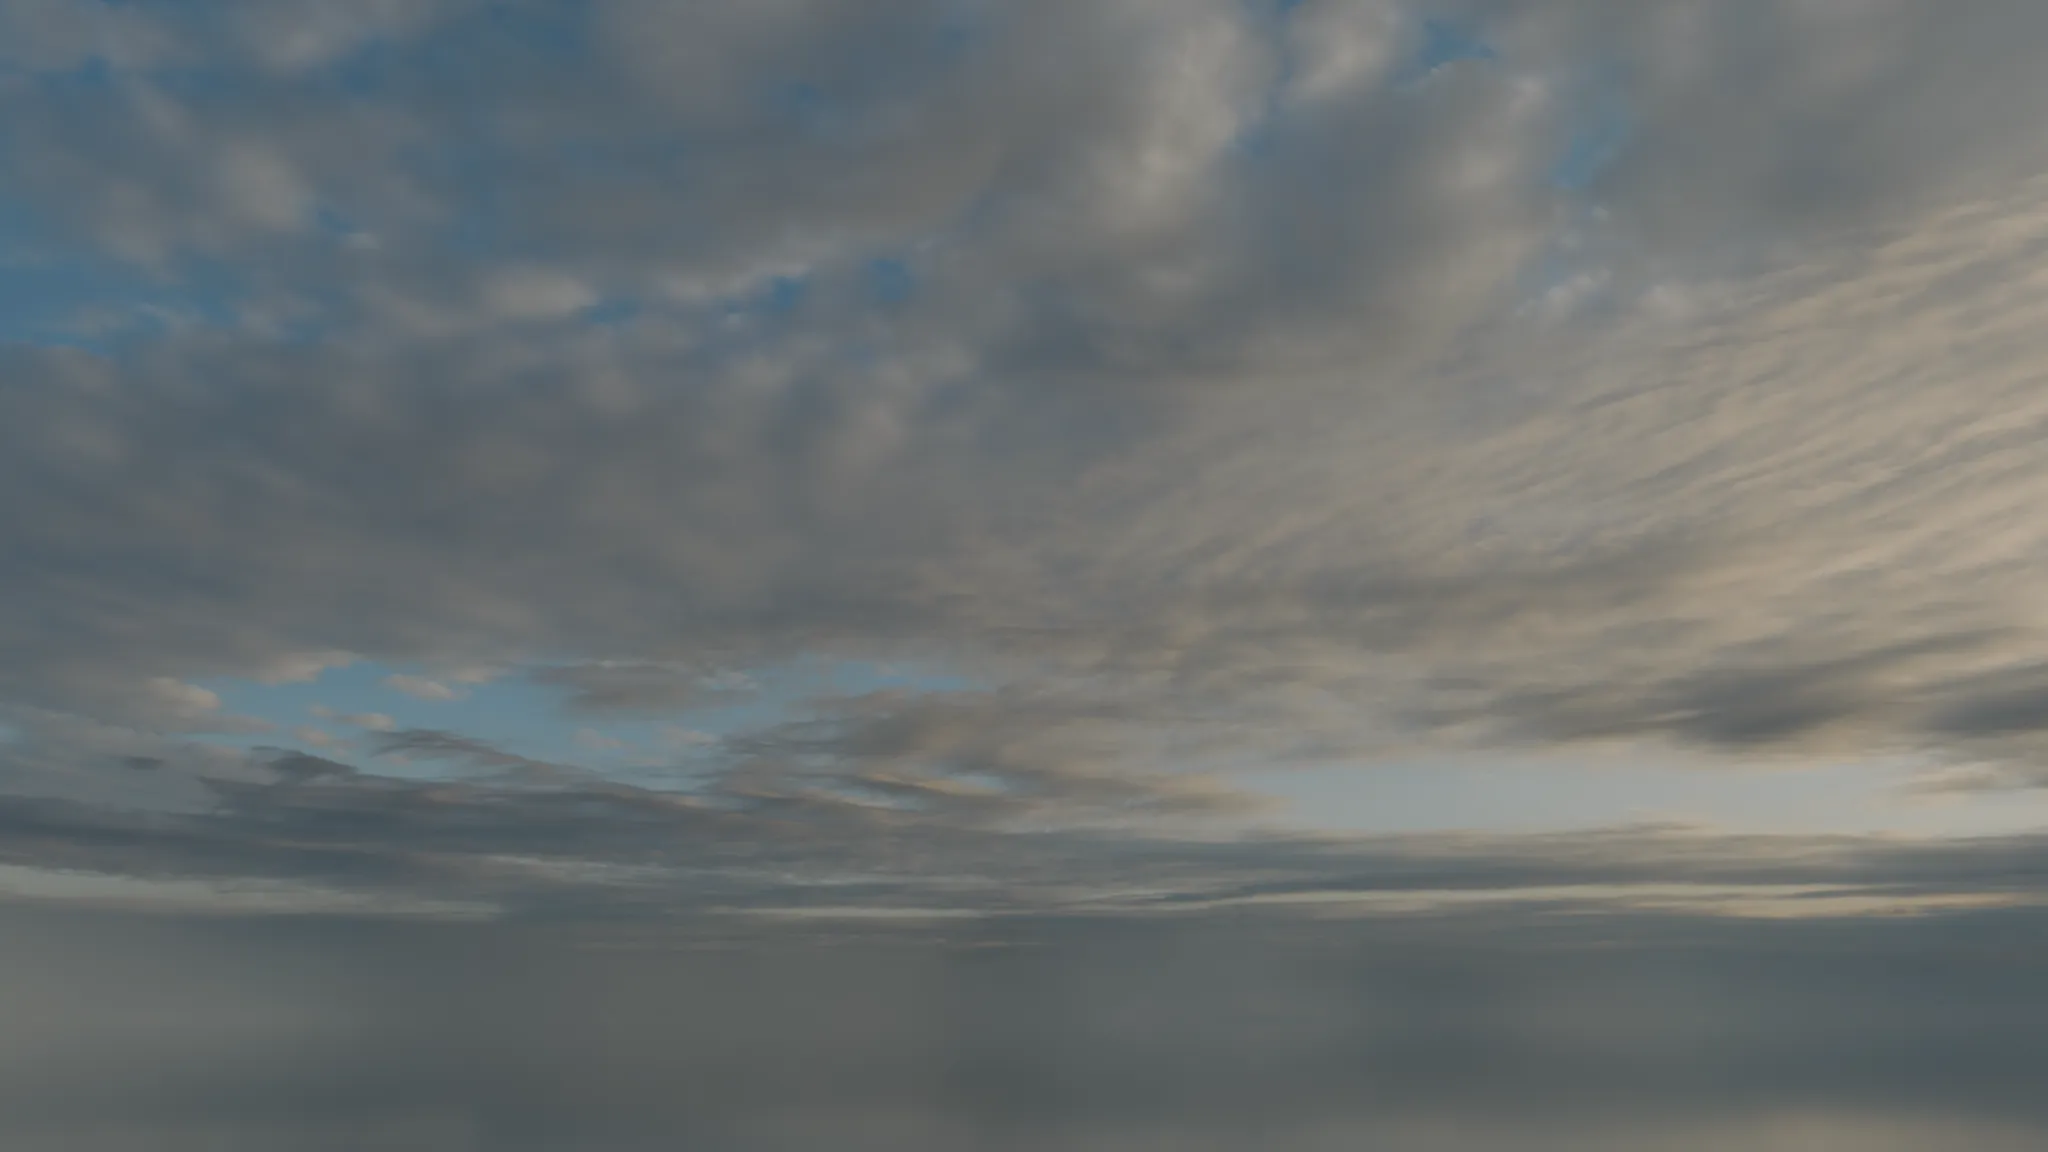
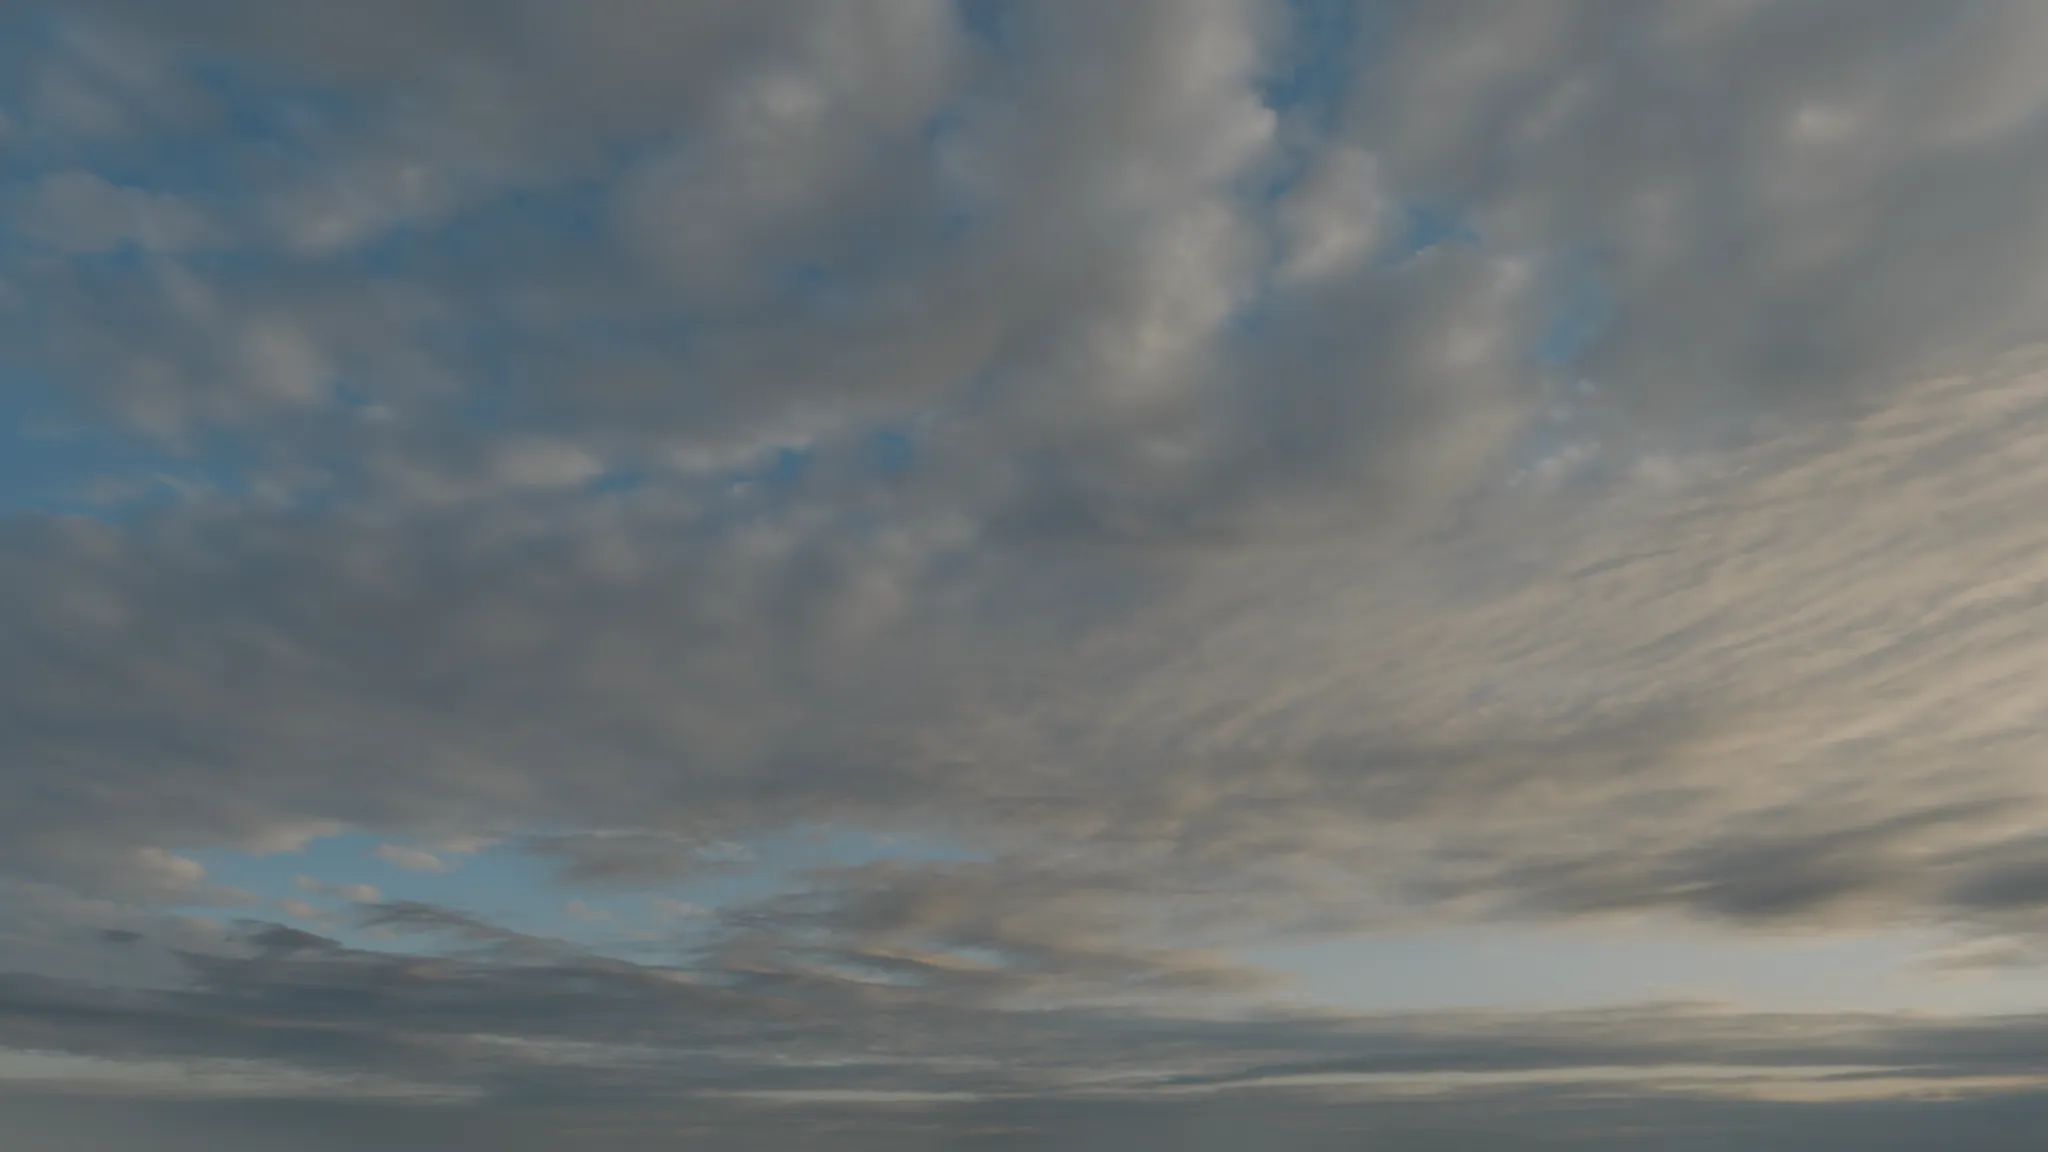
Воздушное превосходство: витрина — в кадре неба только облака (горизонт с размытым низом панорамы ниже кадра)

diff --git a/fortuna-bot-web/games/airdef/shop-ui.js b/fortuna-bot-web/games/airdef/shop-ui.js
@@ -33,7 +33,7 @@ const CSS = `
 #shopWin .ic { width: 1em; height: 1em; fill: currentColor; flex: none; display: inline-block; vertical-align: -0.14em; }
 #shopWin .gem { color: var(--jade); }
 #shopWin .sky { position: absolute; inset: -3%; z-index: -3; transform: translate(calc(var(--mx, 0) * -6px), calc(var(--my, 0) * -4px)); transition: transform .3s linear; }
-#shopWin .skyi { position: absolute; inset: 0; background: 50% 28% / cover no-repeat; /* горизонт у нижнего края кадра неба: широкий экран режет низ, а не облака */ opacity: 0; transition: opacity 1s ease; animation: shpDrift 40s ease-in-out infinite alternate; }
+#shopWin .skyi { position: absolute; inset: 0; background: center / cover no-repeat; /* в кадре неба — только облака: горизонт с размытым низом панорамы — ниже кадра (shop-sky-render.py skyup) */ opacity: 0; transition: opacity 1s ease; animation: shpDrift 40s ease-in-out infinite alternate; }
 #shopWin .skyi.on { opacity: 1; }
 @keyframes shpDrift { from { transform: scale(1.04) translateX(0); } to { transform: scale(1.1) translateX(-1.5%); } }
 #shopWin .hero { position: absolute; z-index: 2; left: var(--hx); top: var(--hy); width: var(--hw); height: calc(var(--hw) * .5625); pointer-events: none;

diff --git a/fortuna-bot-web/tools/airdef-models/shop-sky-render.py b/fortuna-bot-web/tools/airdef-models/shop-sky-render.py
@@ -11,7 +11,7 @@ import numpy as np
 
 a = sys.argv[sys.argv.index('--') + 1:]
 GLB, SKIN, HDR, OUT = a[:4]
-P = dict(az=34, el=4, roll=-38, pitch=6, sun=55, sky=1.0, fill=0.35, exp=0.0, skyexp=-1.2, skyup=17, lens=62, w=1920, h=1080, spp=128)
+P = dict(az=34, el=4, roll=-38, pitch=6, sun=55, sky=1.0, fill=0.35, exp=0.0, skyexp=-1.2, skyup=29, lens=62, w=1920, h=1080, spp=128)
 for kv in a[4:]:
     k, v = kv.split('='); P[k] = float(v)
 

diff --git a/fortuna-bot-web/AIRDEF_STATE.md b/fortuna-bot-web/AIRDEF_STATE.md
@@ -745,5 +745,5 @@ Mark работает с **Opus на высоком усилии** — он ру
   Параметры: «Инферно» sun=100 skyexp=-1.8 fill=0.5; дракон sun=55 skyexp=-0.9 exp=0.4 fill=0.7. Смена окраски: небо — плавно, самолёт уходит влево, новый
   влетает справа. F-15E — у сессии сборщика на доработке (кабина, звёздочка, переименование в «Инферно») — после неё перерендерить «Инферно» тем же сценарием.
 - 2026-10-26 · Opus 5.5 · витрина: Mark — «много места занимает размытая часть» (низ «чистой» панорамы — размытое отражение под горизонтом): камера неба смотрит
-  вверх на 22° (shop-sky-render.py skyup), горизонт — у нижнего края под плитками; фон кадрируется по 50% 28% (широкий экран режет низ). Слой самолёта
-  «Инферно» — прежний (F-15E у сборщика на доработке; после неё — перерендер: sun=100 skyexp=-1.8 fill=0.5 skyup=22).
+  вверх на 29° (shop-sky-render.py skyup), горизонт с размытым низом — целиком ниже кадра: в кадре только облака (Mark: «чтобы не было её размытой версии»). Слой самолёта
+  «Инферно» — прежний (F-15E у сборщика на доработке; после неё — перерендер: sun=100 skyexp=-1.8 fill=0.5, skyup по умолчанию 29).
